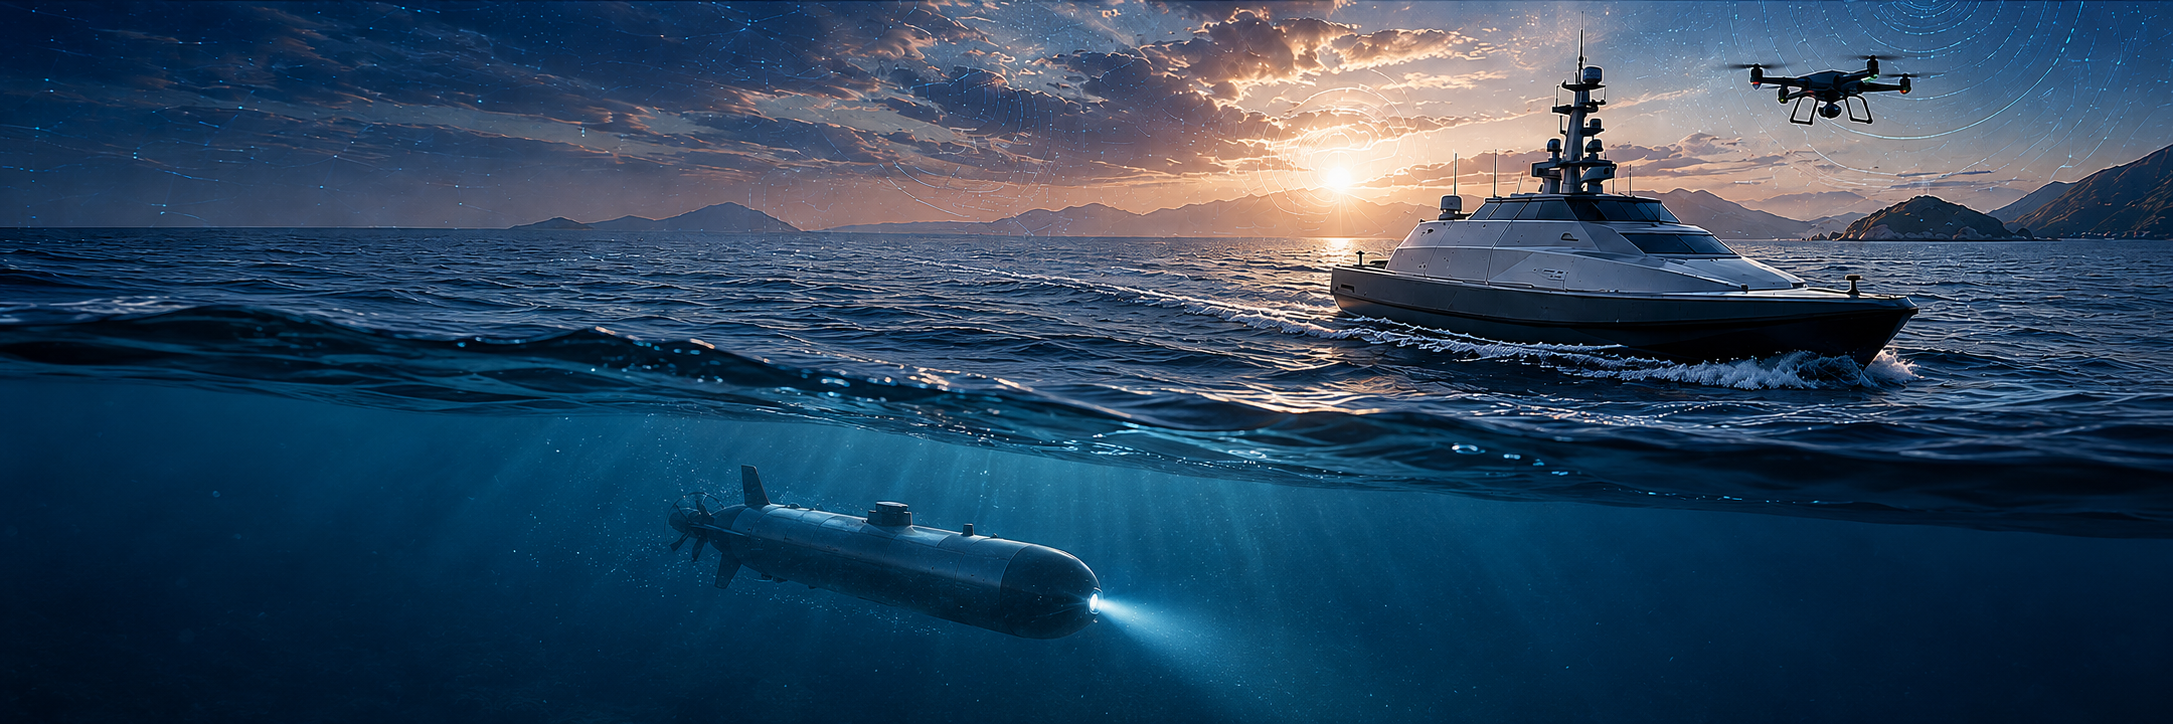
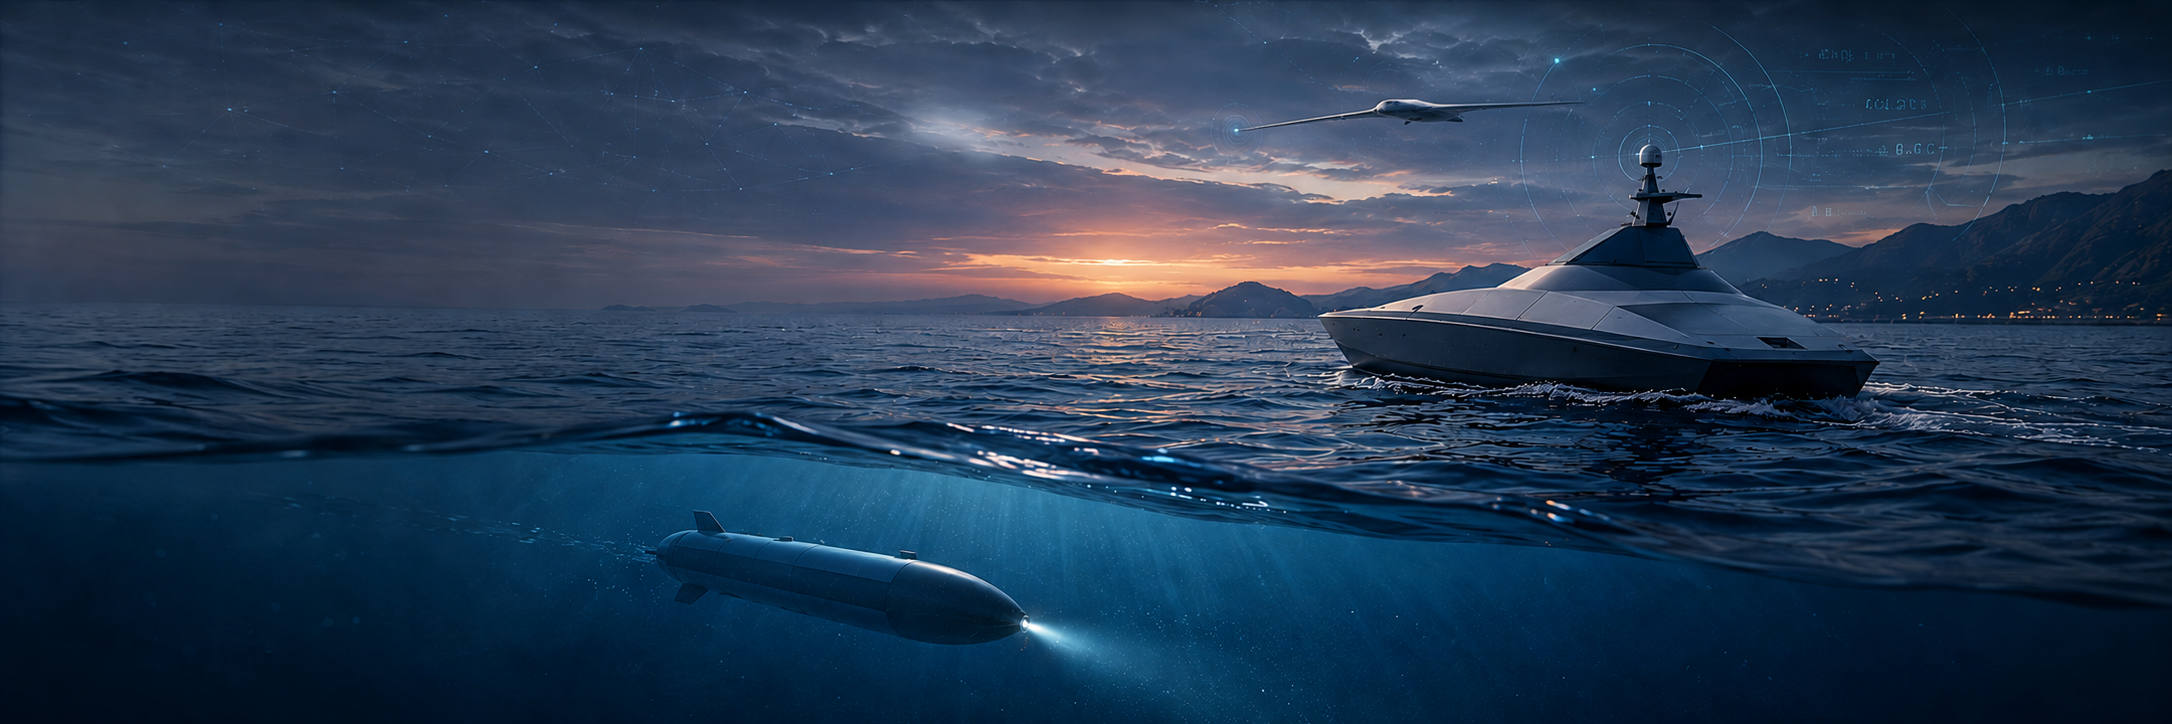
update

diff --git a/_pages/about.md b/_pages/about.md
@@ -14,7 +14,7 @@ nav: false
 
 /* Full hero, centered in viewport, with fixed max width */
 .morin-hero-wrap {
-  width: min(1600px, 100vw);
+  width: min(1200px, 100vw);
   margin-left: 50%;
   transform: translateX(-50%);
   position: relative;
